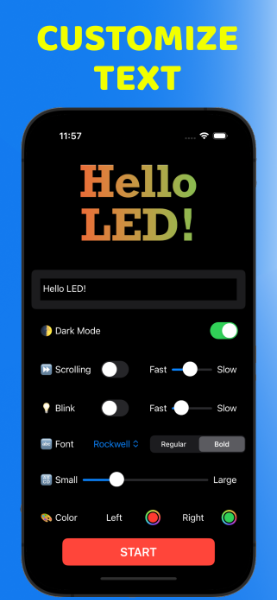
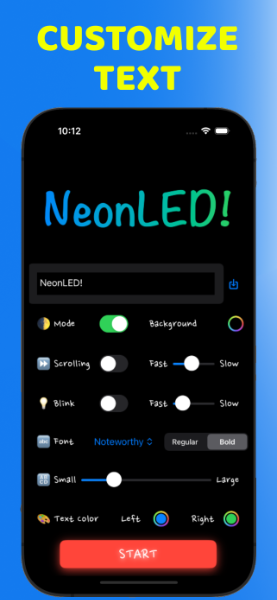
Updates

diff --git a/README.md b/README.md
@@ -1,17 +1,16 @@
 # NeonLED
 
-This LED Banner will make you shine anywhere!
+NeonLED will make you shine anywhere! Use NeonLED at concerts, parties, events, and more to illuminate your surroundings with vibrant colors and dynamic LED effects!
 
-With distinctive and captivating LED effects, coupled with innovative materials, your bullet screen effortlessly stands out from the crowd. The minimalist user interface empowers you to swiftly craft your personalized bullet screen.
+With captivating LED effects, your bullet screen will stand out from the crowd. The simple user interface allows you to quickly craft a personalized bullet screen.
 
-Features
-* Provides various LED effects to enhance the bullet screen's visual appeal.
-* Supports both landscape and portrait screens.
-* Allows scrolling text with adjustable speed.
-* Enables text blinking functionality with an adjustable blinking speed.
-* Facilitates easy font changes.
-* Quickly adjusts text size and color.
-* Supports dark mode.
+Features:
+- Provides various LED effects to enhance the visual appeal of your message.
+- Supports both landscape and portrait modes.
+- Text can scroll and/or blink, with adjustable speeds.
+- Supports a variety of fonts.
+- Quickly adjust text size and color, as well as background color.
+- Supports dark mode.
 
 ![Screenshot1](https://elibooklover.github.io/NeonLED/Screenshot1.png) ![Screenshot2](https://elibooklover.github.io/NeonLED/Screenshot2.png) 
 
